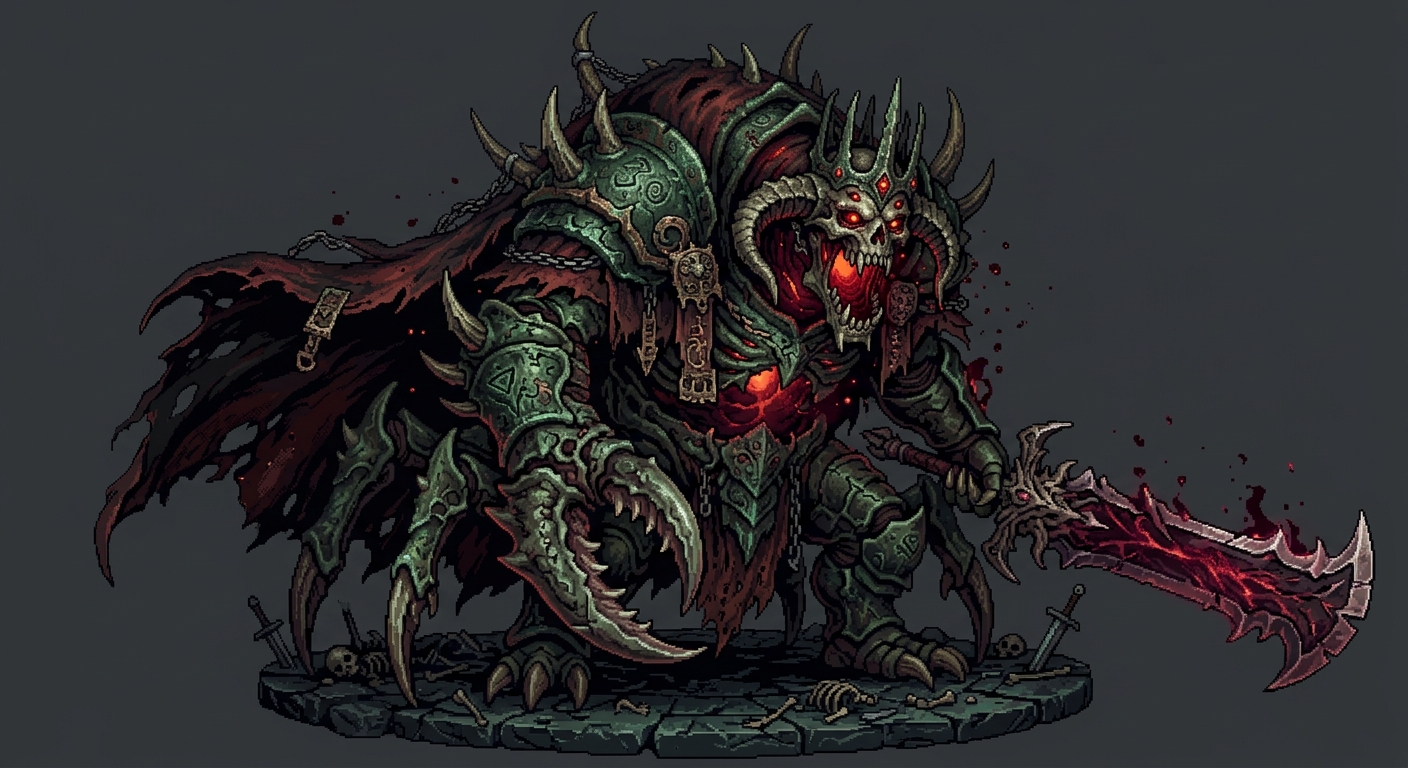
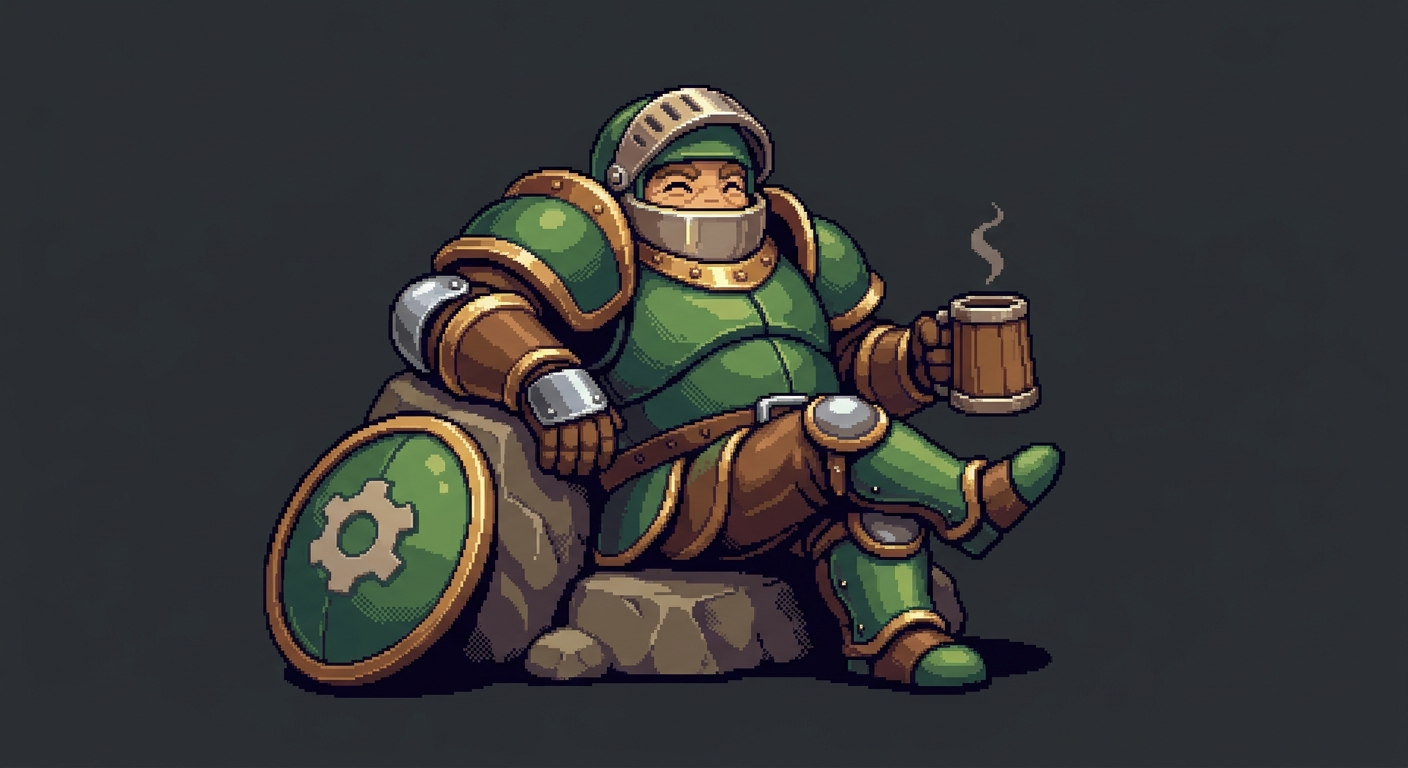
Wed Oct 28 23:05:08 GMT 2026

diff --git a/game/game.go b/game/game.go
@@ -28,9 +28,12 @@ const (
 	framesPerSecond              = 60
 	heroImageCols                = 26
 	heroImageRows                = 7
+	healthImageCols              = 12
+	healthImageRows              = 4
 	enemySmallImageID            = 11
 	enemyMediumImageID           = 12
 	enemyTankImageID             = 13
+	healthImageID                = 14
 	enemyAggroHorizontalRange    = 16
 	enemyAggroVerticalRange      = 7
 	heroAttackAOEHorizontalRange = 8
@@ -147,6 +150,12 @@ func Run() {
 		}
 		fmt.Print(kittyTransmitHero(enemyImage, enemySmallImageID+imageID))
 	}
+	healthImage, err := loadKittyHero("assets/health.jpeg")
+	if err != nil {
+		fmt.Fprintf(os.Stderr, "could not load health image: %v\n", err)
+		return
+	}
+	fmt.Print(kittyTransmitHero(healthImage, healthImageID))
 
 	width, height := readTerminalSize()
 	playerX, playerY := chamberCenter(width, height)
@@ -343,9 +352,6 @@ func renderDungeon(hero player, width, height int, idleFrame bool, swingFrame in
 		}
 	}
 	drawHUD(grid, hero, foes, gearDrops)
-	for _, pickup := range pickups {
-		drawHealthPickup(grid, pickup, left, right, top, bottom)
-	}
 	drawEnemyDeathEffects(grid, deathEffects, left, right, top, bottom, time.Now())
 	for _, drop := range gearDrops {
 		drawGearDrop(grid, drop, left, right, top, bottom)
@@ -369,6 +375,7 @@ func renderDungeon(hero player, width, height int, idleFrame bool, swingFrame in
 	for imageID := enemySmallImageID; imageID <= enemyTankImageID; imageID++ {
 		fmt.Fprintf(&frame, "\x1b_Ga=d,d=i,i=%d,q=2\x1b\\", imageID)
 	}
+	fmt.Fprintf(&frame, "\x1b_Ga=d,d=i,i=%d,q=2\x1b\\", healthImageID)
 	frame.WriteString("\x1b[H")
 	for y, row := range grid {
 		lastColor := ""
@@ -386,6 +393,11 @@ func renderDungeon(hero player, width, height int, idleFrame bool, swingFrame in
 	}
 	frame.WriteString("\x1b[0m\x1b[K\x1b[?2026l")
 	if !uiOverlayOpen {
+		for index, pickup := range pickups {
+			row := max(pickup.y-healthImageRows/2, 3)
+			col := max(pickup.x-healthImageCols/2, 1)
+			frame.WriteString(fmt.Sprintf("\x1b[%d;%dH\x1b_Ga=p,i=%d,p=%d,c=%d,r=%d,q=2\x1b\\", row, col, healthImageID, index+1, healthImageCols, healthImageRows))
+		}
 		for index, foe := range foes {
 			if foe.Health <= 0 {
 				continue
@@ -876,12 +888,6 @@ func drawGearDrop(grid [][]tile, drop gearDrop, left, right, top, bottom int) {
 		glyph, tier = 'a', drop.armour.Tier
 	}
 	grid[drop.y][drop.x] = tile{glyph, weaponTierColor(tier)}
-}
-
-func drawHealthPickup(grid [][]tile, pickup healthPickup, left, right, top, bottom int) {
-	if pickup.x > left && pickup.x < right && pickup.y > top && pickup.y < bottom {
-		grid[pickup.y][pickup.x] = tile{'+', "\x1b[38;2;103;222;130m"}
-	}
 }
 
 func spawnEnemyPack(width, height int) []enemy {
